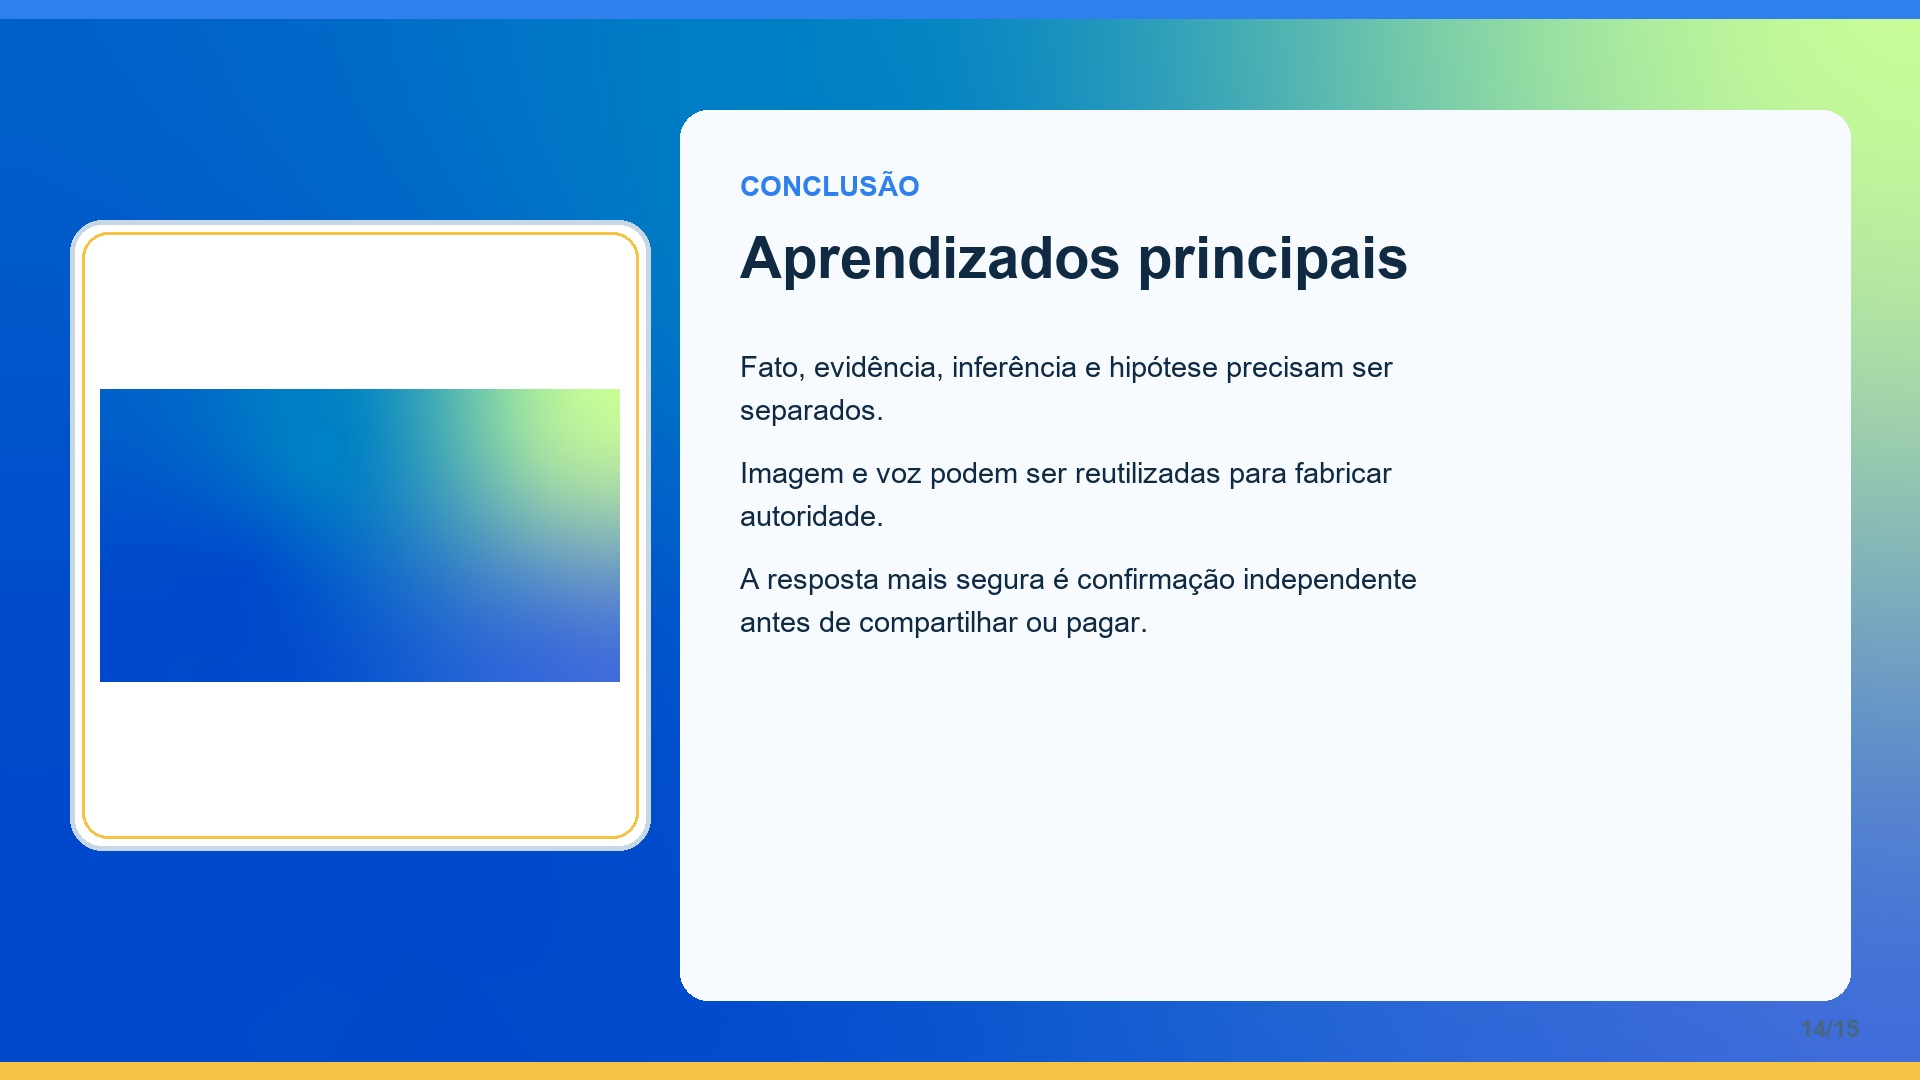
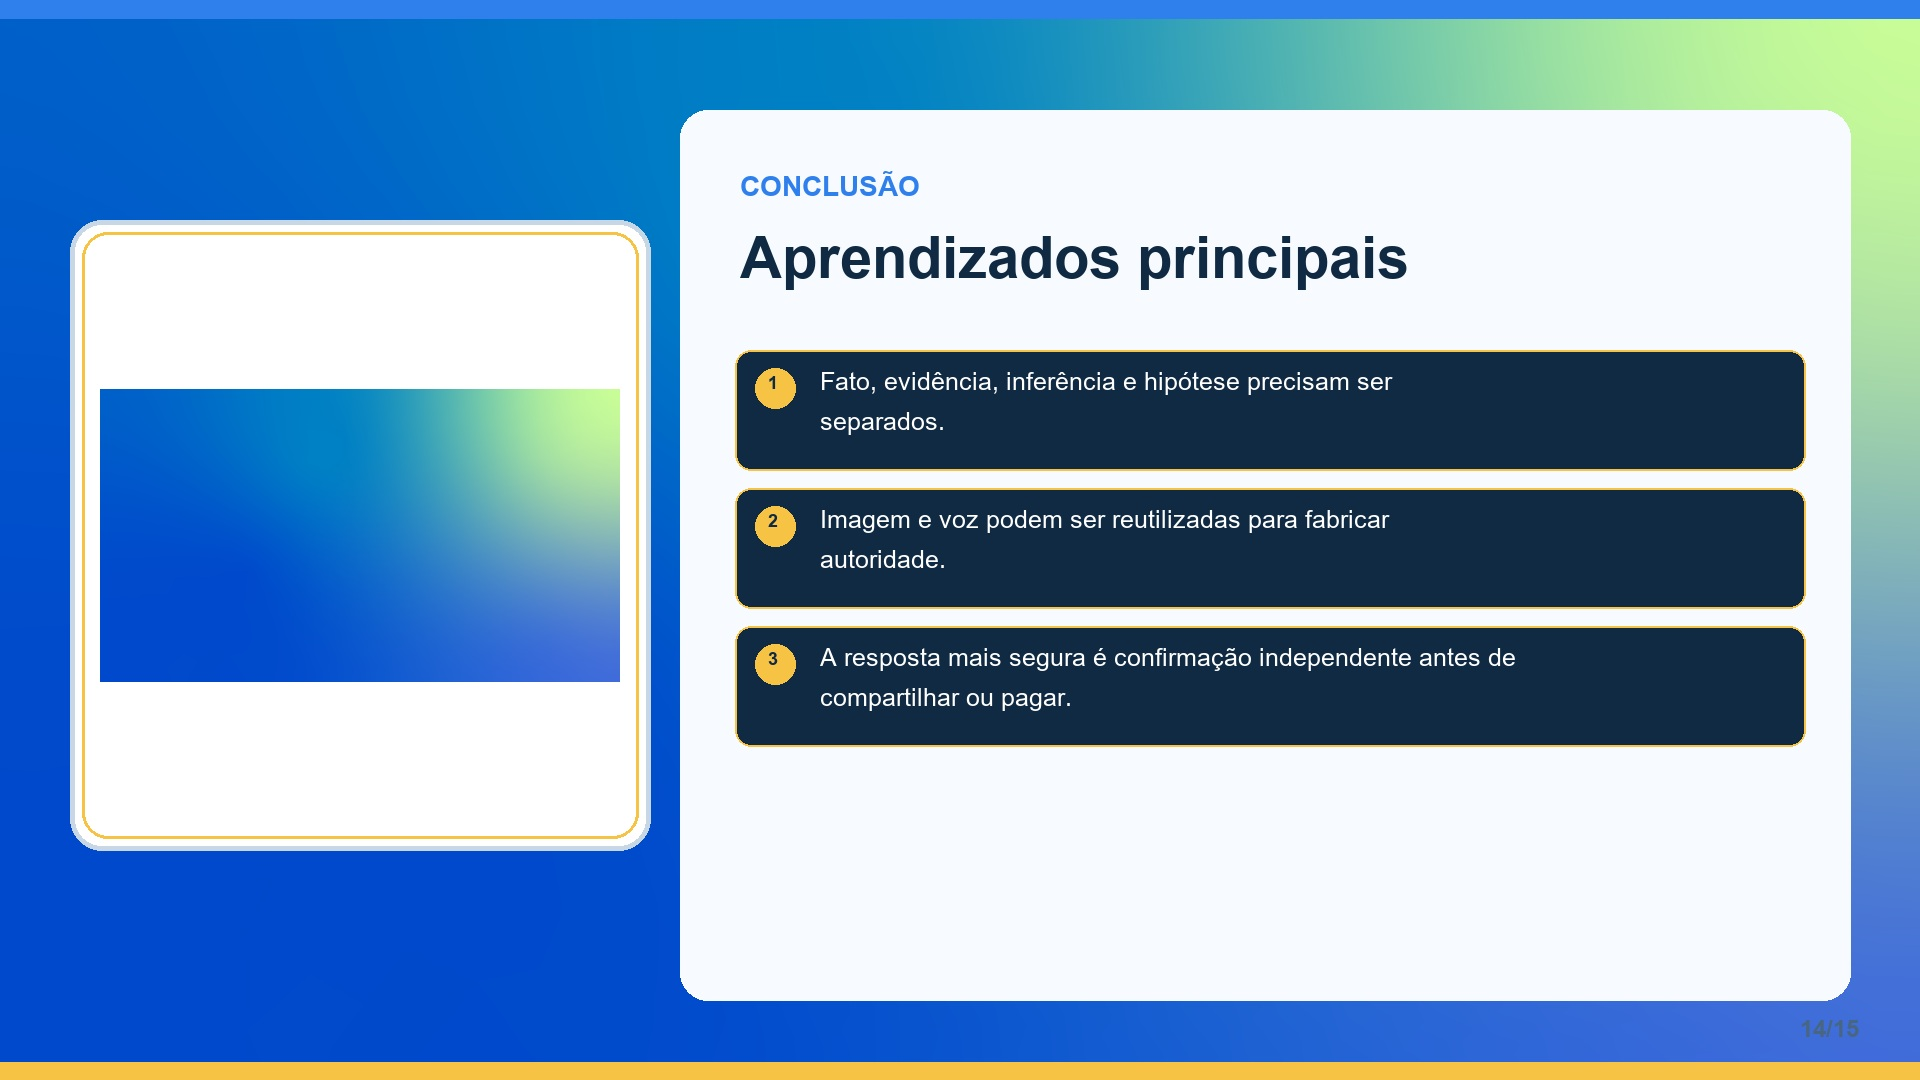
feat: transformar textos em blocos visuais

Changed region(s): [[0.375, 0.3056, 0.9688, 0.7028]]

diff --git a/scripts/generate_n3_jpgs.py b/scripts/generate_n3_jpgs.py
@@ -48,9 +48,12 @@ def diagram(d, i):
 for i,(k,t,ps,img) in enumerate(S,1):
  bg=Image.open(A/'template-capa-002.png').convert('RGB').resize((1920,1080))
  im=bg.copy(); d=ImageDraw.Draw(im); d.rectangle((0,0,1920,18),fill=(47,128,237)); d.rectangle((0,1062,1920,1080),fill=(246,195,68)); d.rounded_rectangle((680,110,1850,1000),radius=28,fill=(247,251,255,238)); d.rounded_rectangle((70,220,650,850),radius=32,fill=(255,255,255),outline=(199,215,229),width=5); d.rounded_rectangle((82,232,638,838),radius=26,outline=(246,195,68),width=3); a=Image.open(A/img).convert('RGBA'); a.thumbnail((520,560)); ax=360-a.width//2; ay=535-a.height//2; im.paste(a,(ax,ay),a); d.text((740,170),k,font=font(28,1),fill=(47,128,237)); d.text((740,225),t,font=font(58,1),fill=(16,42,67)); y=350
- for p in ps:
-  for line in textwrap.wrap(p,52):d.text((740,y),line,font=font(29),fill=(16,42,67));y+=43
-  y+=20
+ for n,p in enumerate(ps,1):
+  lines=textwrap.wrap(p,58); h=max(82,48*len(lines)+24)
+  d.rounded_rectangle((735,y,1805,y+h),radius=16,fill=(16,42,67),outline=(246,195,68),width=2)
+  d.ellipse((755,y+18,795,y+58),fill=(246,195,68)); d.text((768,y+22),str(n),font=font(18,1),fill=(16,42,67))
+  for j,line in enumerate(lines):d.text((820,y+17+j*40),line,font=font(25),fill=(255,255,255))
+  y+=h+18
  diagram(d,i)
  if img.startswith('visual-'): d.text((110,790),'ILUSTRAÇÃO CC BY-SA 2.0 · MINISTERIE VAN BUITENLANDSE ZAKEN',font=font(13,1),fill=(16,42,67))
  d.text((1800,1015),f'{i}/15',font=font(24,1),fill=(72,102,129));im.save(O/f'slide-{i:02d}.jpg',quality=94,optimize=True)
